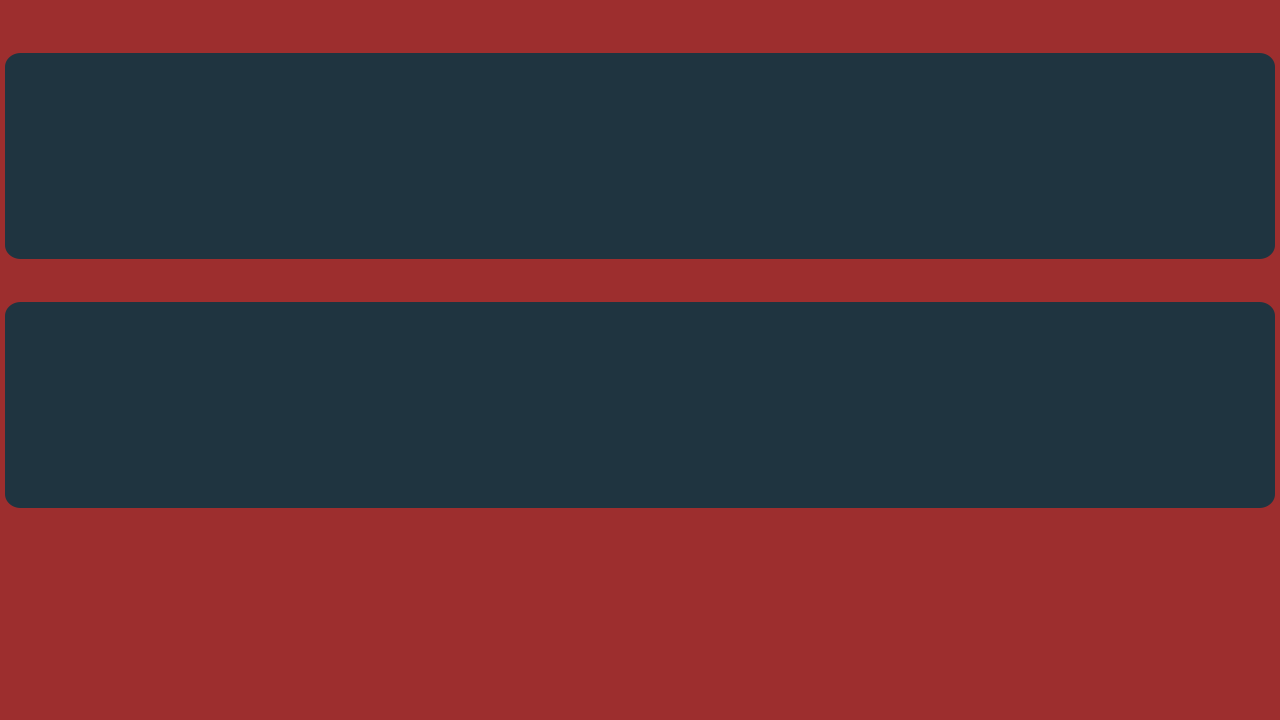
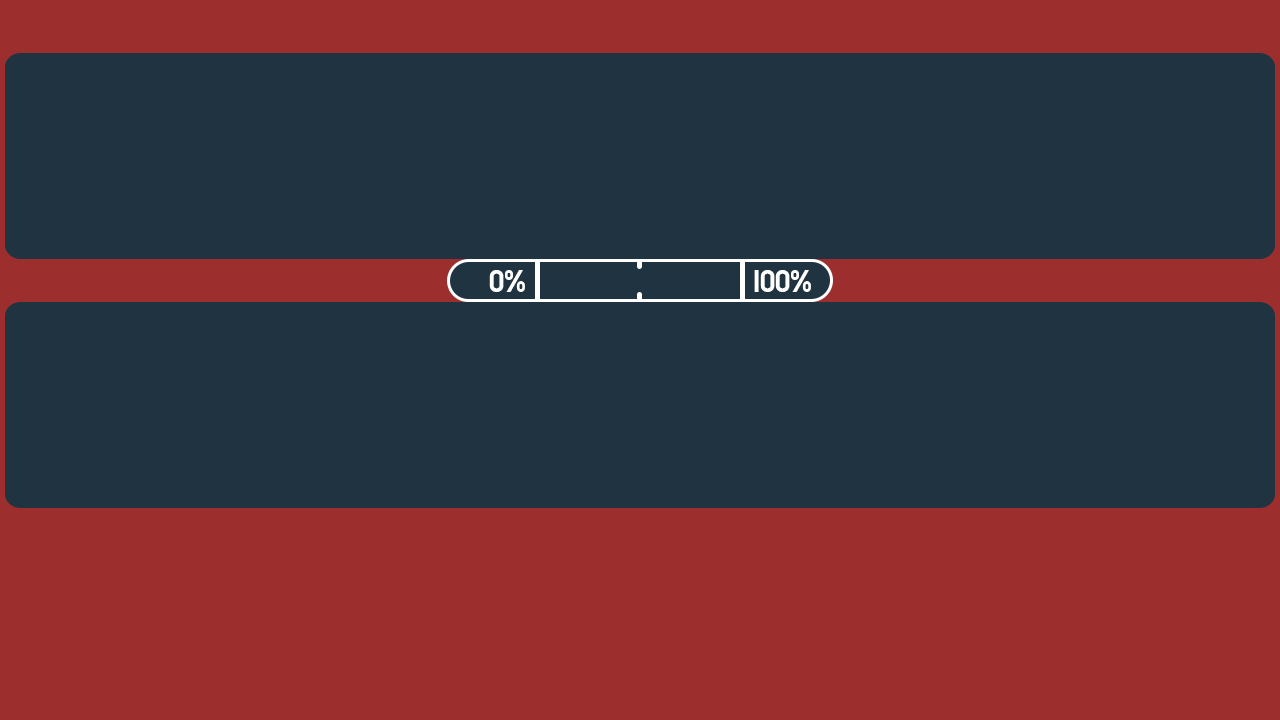
Resized emissions + adeed background

Changed region(s): [[0.3438, 0.3361, 0.6562, 0.4278]]

diff --git a/core/src/com/xdays/game/states/PlayState.java b/core/src/com/xdays/game/states/PlayState.java
@@ -323,7 +323,7 @@ public class PlayState extends State {
 
 		// render the ais cards on the board
 		for (int i = 0; i < getNumAiCards(); i++) {
-			sb.draw(getAICard(i).getTexture(), getXValue(getAICard(i)), getYValue(getAICard(i)),
+			sb.draw(getAICard(i).getTexture(), getXValue(getAICard(i)), getYValue(getAICard(i)) + 10,
 					getCardWidth(getAICard(i)), getCardHeight(getAICard(i)));
 		}
 
@@ -333,7 +333,6 @@ public class PlayState extends State {
 		drawEmissionsBar();
 	    
 		sb.begin();
-		emissions.draw(sb, "Emissions: " + Integer.toString(getEmissionBar()), cam.position.x-125, cam.position.y+85);
 		sb.end();
 	}
 	
@@ -341,7 +340,7 @@ public class PlayState extends State {
 		ShapeRenderer shapeRenderer = new ShapeRenderer();
 	    shapeRenderer.begin(ShapeType.Filled);
 	    shapeRenderer.setColor(Color.RED);
-	    shapeRenderer.rect(cam.position.x-125, cam.position.y+65, getEmissionBar()*4, 30);
+	    shapeRenderer.rect(cam.position.x-100, cam.position.y+65, getEmissionBar()*2, 30);
 	    shapeRenderer.end();
 	}
 
